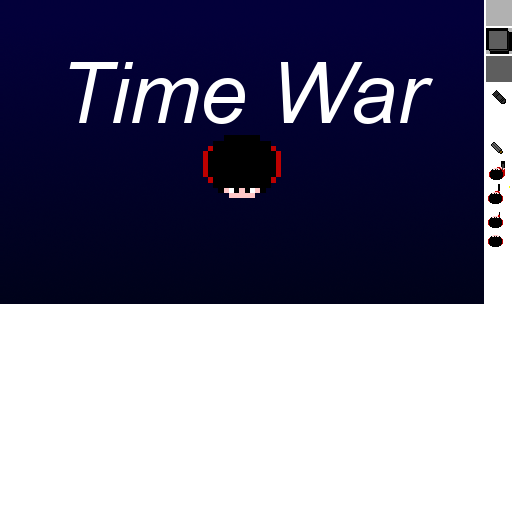
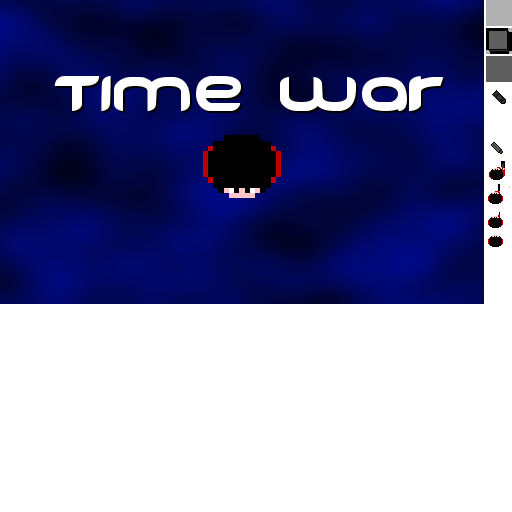
New clock labels and other tweaks

diff --git a/Assets/Resources/Scripts/World.cs b/Assets/Resources/Scripts/World.cs
@@ -33,17 +33,20 @@ public class World
     float beginCount = 0;
 
     private int[] enemiesOnLevel = new int[] { 30, 30, 40, 40, 40, 60 };
-    private string beginningMessage = "Kill All Enemies Before Time Runs Out\n\nWASD - Move\n\nMouse - Shoot";
+    private string[] beginningMessages = new string[] {"Kill All Enemies Before Time Runs Out\n\nWASD - Move\n\nMouse - Shoot",
+                                                      "Tip: Sometimes Bigger Enemies Drop Powerups... Shh...",
+                                                      "",
+                                                      "Remember You Don't Have to Kill Every Enemy At Once" };
     private FLabel beginningLabel;
 
     public World(int level)
     {
-
+        string beginningMessage = "";
+        if (beginningMessages.Length > level)
+            beginningMessage = beginningMessages[level];
         beginningLabel = new FLabel("Large", beginningMessage);
-        if (level == 0)
-            beginningLabel.alpha = 1.0f;
-        else
-            beginningLabel.alpha = 0.0f;
+        beginningLabel.alpha = 1.0f;
+        beginningLabel.y = -70;
 
         this.currentLevelNum = level;
         string levelName = "Maps/map" + level;
@@ -52,11 +55,9 @@ public class World
         clock = new Clock();
         enemyClock = new EnemyClock();
 
-        FCamObject gui = new FCamObject();
+        gui = new FCamObject();
         gui.AddChild(clock);
         gui.AddChild(enemyClock);
-
-        this.gui = gui;
 
         setClock(clock);
 
@@ -64,6 +65,7 @@ public class World
 
         tmxMap.LoadTMX(levelName);
         tilemap = (FTilemap)(tmxMap.getLayerNamed("Tilemap"));
+
         FTilemap objectLayer = (FTilemap)(tmxMap.getLayerNamed("Objects"));
 
         for (int xInd = 0; xInd < objectLayer.widthInTiles; xInd++)
@@ -90,10 +92,12 @@ public class World
 
         playerLayer.AddChild(tmxMap);
         tilemap.clipNode = gui;
+
         Player player = new Player(true);
         gui.follow(player);
         addPlayer(player);
         player.setScale(2.0f, true);
+
 
         for (int ind = 0; ind < startNumPlayers; ind++)
         {
@@ -146,11 +150,11 @@ public class World
                 FSoundManager.PlaySound("win");
                 endScreen = new LevelOverScreen(true);
                 gui.AddChild(endScreen);
-                
+
             }
             else
             {
-              
+
                 if (endScreen.readyToStart)
                 {
                     Futile.instance.SignalUpdate -= Update;

diff --git a/Assets/Resources/Scripts/Clock.cs b/Assets/Resources/Scripts/Clock.cs
@@ -12,10 +12,11 @@ public class Clock : FRadialWipeSprite
     protected FLabel timeLabel;
     protected FSprite clockBackground;
     protected FLabel label;
+    protected FLabel labelShadow;
     public Clock()
         : base("clock", true, 0, 1.0f)
     {
-        label = new FLabel("Small", "Time Left");
+        label = new FLabel("Large", "Time Left");
         timeLabel = new FLabel("Small", "10");
         timeLabel.color = Color.black;
         x = Futile.screen.halfWidth - width * tickScale / 2 - clockMargin;
@@ -25,7 +26,9 @@ public class Clock : FRadialWipeSprite
         clockBackground = new FSprite("clock");
         clockBackground.SetPosition(GetPosition());
         label.x = x;
-        label.y = y - height / 2 * tickScale / 2;
+        label.y = y + height / 3 * tickScale / 2;
+        labelShadow = new FLabel("Large", "Time Left");
+        labelShadow.color = new Color(0, 0, 0, .5f);
 
     }
 
@@ -33,6 +36,7 @@ public class Clock : FRadialWipeSprite
     {
         container.AddChild(clockBackground);
         container.AddChild(timeLabel);
+        container.AddChild(labelShadow);
         base.HandleAddedToContainer(container);
         container.AddChild(label);
     }
@@ -44,6 +48,7 @@ public class Clock : FRadialWipeSprite
 
     public override void HandleRemovedFromStage()
     {
+        labelShadow.RemoveFromContainer();
         clockBackground.RemoveFromContainer();
         Futile.instance.SignalUpdate -= Update;
         timeLabel.RemoveFromContainer();
@@ -56,6 +61,12 @@ public class Clock : FRadialWipeSprite
     public virtual void Update()
     {
         timeLabel.MoveToFront();
+        labelShadow.MoveToFront();
+        label.MoveToFront();
+
+        labelShadow.text = label.text;
+
+        labelShadow.SetPosition(label.GetPosition() + new Vector2(1, -1));
         percentage -= UnityEngine.Time.deltaTime * .1f;
         if (Mathf.CeilToInt(percentage * 10) != lastSecond)
         {

diff --git a/Assets/Resources/Scripts/VictoryScreen.cs b/Assets/Resources/Scripts/VictoryScreen.cs
@@ -10,15 +10,12 @@ public class LevelOverScreen : FContainer
     FSprite transparentBackground;
     FLabel levelCompleteLabel;
 
-    public bool fadeIn = false;
-    private bool won = false;
 
     public bool readyToStart = false;
 
     public LevelOverScreen(bool won)
         : base()
     {
-        this.won = won;
         transparentBackground = new FSprite(Futile.whiteElement);
         transparentBackground.color = Color.black;
         transparentBackground.alpha = 0;
@@ -56,7 +53,7 @@ public class LevelOverScreen : FContainer
 
 
 
-        if (levelCompleteLabel.alpha >= 1.0f && Input.GetMouseButtonUp(0))
+        if (levelCompleteLabel.alpha >= .4f && Input.GetMouseButtonUp(0))
         {
             readyToStart = true;
 

diff --git a/Assets/Futile/ThirdParty/Mattfox/FTilemap.cs b/Assets/Futile/ThirdParty/Mattfox/FTilemap.cs
@@ -165,6 +165,8 @@ public class FTilemap : FContainer
                 }
             }
         }
+        
+        
     }
 
     public void LoadText(string text, bool skipZero = true, bool draw = true)
